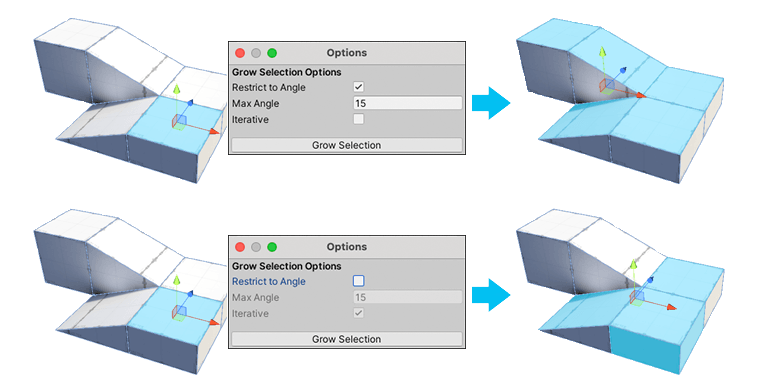
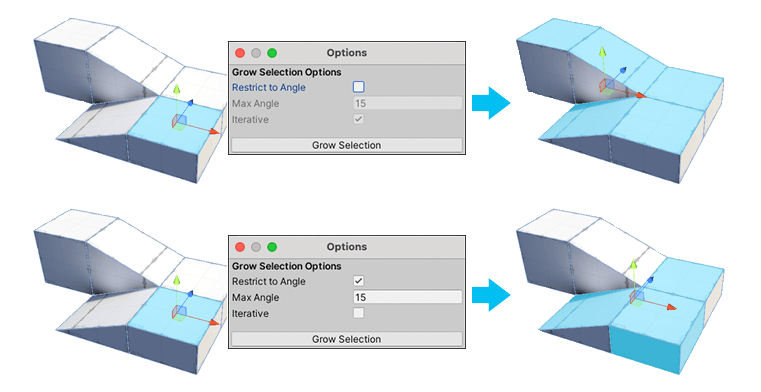
Grow Selection page and image
Plus two small edits to other pages

diff --git a/Documentation~/Selection_Grow.md b/Documentation~/Selection_Grow.md
@@ -1,21 +1,26 @@
-# ![Grow Selection](images/icons/Selection_Grow.png) Grow Selection
+# Grow Selection
 
-The __Grow Selection__ action expands the selection outward to adjacent faces, edges, or vertices.
+The __Grow Selection__ action expands your selection outward to adjacent faces, edges, or vertices.
 
-![Grow Selection Examples](images/GrowSelection_Example.png)
+To expand the selection:
 
-This action is available in the [vertex, edge, and face modes](modes.md).
-
-You can use this action with the **Alt/Opt+G** shortcut, or from the ProBuilder menu (**Tools** > **ProBuilder** > **Selection** > **Grow Selection**).
-
-
+1. In the **Tools** overlay, select the **ProBuilder** context.
+1. In the **Tool Settings** overlay, select an edit mode. All three modes support this action.
+1. Select a face, edge, or vertex.
+1. Do one of the following:
+    * Right-click (macOS: **Ctrl**+click) and click **Select** > **Grow Selection**.
+    * From the main menu, select **Tools** > **ProBuilder** > **Selection** > **Grow Selection**.
+1. The **Grow Selection** overlay opens and the selection is expanded to match the default settings.
 
 ## Grow Selection Options
 
-![Grow Selection Options](images/Selection_Grow_props.png)
+| **Property** | **Description** |
+| --- | --- |
+| **Restrict To Angle** | Limit selection to faces at or under a certain angle from the original face. This option is only available for face selection. |
+| **Max Angle** | Set the maximum angle allowed when growing the selection. This option is only available when you use **Restrict to Angle**. |
+| **Iterative** | Adds faces that are next to faces it just added, and not just the faces next to the original selection. This option is only available when you use **Restrict to Angle**. |
+| **Live Preview** | Add faces as you change the angle with the mouse. If this option isn't active, the faces are added only when you release the mouse. |
 
-| **Property:**       | **Description:**                                           |
-| --------------------- | ------------------------------------------------------------ |
-| **Restrict To Angle** | Enable this property to grow the selection only to those faces within a specified angle. |
-| **Max Angle**         | Set the maximum angle allowed when growing the selection.<br />ProBuilder ignores this property and prevents you from editing it unless the __Restrict to Angle__ property is enabled. |
-| **Iterative**         | Enable this property to grow the selection one adjacent face at a time, each time you press the **Grow Selection** button.<br />This property is enabled automatically (and is not editable) if the __Restrict to Angle__ property is disabled. |
+This image shows how **Restrict To Angle** changes the selection. In the top example, with no angle restriction, the selection includes all adjacent faces. In the bottom example, the selection includes only faces within 15 degrees of the original face
+
+![Grow Selection. In the top example, with no angle restriction, the selection includes all adjacent faces. In the bottom example, the selection includes only faces within 15 degrees of the original face.](images/GrowSelection_Example.png)

diff --git a/Documentation~/tool-options-overlay.md b/Documentation~/tool-options-overlay.md
@@ -1,8 +1,8 @@
 # Tool options overlays
 
-You can change settings for some ProBuilder options like extrude, collapse, and grow selection. The settings are available in the **Tool Options Overlay** for each tool.
+You can change settings for some ProBuilder options like extrude, collapse, and grow selection. The settings are available in the **Tool Options Overlay** for each tool. 
 
-To access the tool settings:
+The **Tool Options Overlay** opens when you select a tool; if it doesn't, you can open it from the **Overlay Menu**:
 
 1. Select a tool, for example **Main Menu** > **Tools** > **ProBuilder** > **Selection** > **Grow Selection**.
 1. From the **Overlay Menu** overlay, select the corresponding action's button. For example, for the Grow Selection action, the button is **GS**.

diff --git a/Documentation~/Edge_Bevel.md b/Documentation~/Edge_Bevel.md
@@ -14,6 +14,7 @@ To bevel edges or faces:
 1. Do one of the following:
     * Right-click (macOS: **Ctrl**+click) on the selected face or edge and select **Bevel Edges**.
     * From the main menu, select **Tools** > **ProBuilder** > **Geometry** > **Bevel Edges**.
+1. The **Bevel Edges** overlay opens and a new face is created.
 
 ## Bevel Edges options
 
